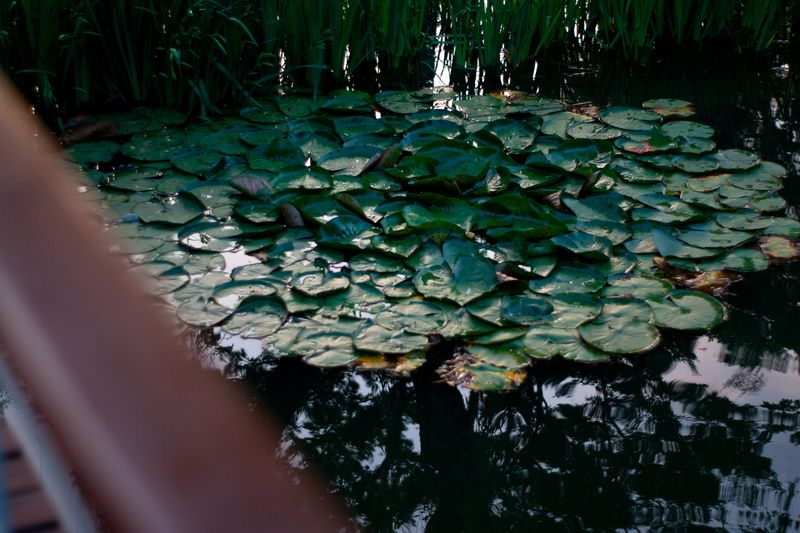
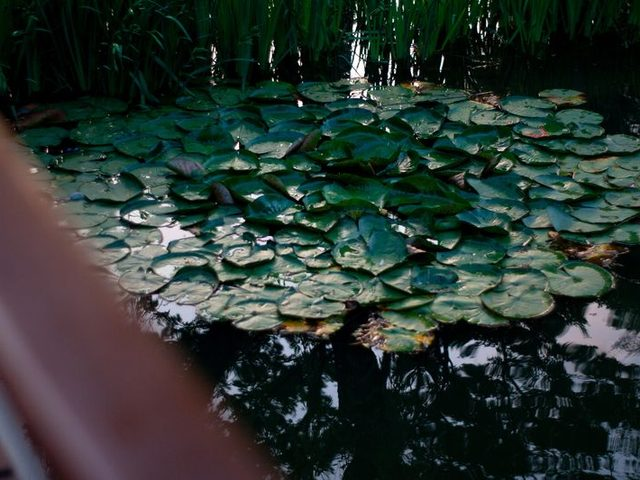
style: 照片墙统一 4:3 裁剪 + table 排版

diff --git a/README.md b/README.md
@@ -56,9 +56,13 @@ B.Sc. Computer Science @ Ningbo University → M.Sc. Cybersec @ NUAA *(incoming)
 <div align="center">
   <b>More shots / 更多照片</b>
   <br/><br/>
-  <img src="./assets/photos/lotus.jpg" width="280" alt="公园荷叶 by Crane"/>
-  <img src="./assets/photos/park.jpg" width="280" alt="公园 by Crane"/>
-  <img src="./assets/photos/bridge.jpg" width="190" alt="三官堂大桥 by Crane"/>
+  <table>
+    <tr>
+      <td align="center"><img src="./assets/photos/lotus.jpg" width="250" alt="公园荷叶 by Crane"/></td>
+      <td align="center"><img src="./assets/photos/park.jpg" width="250" alt="公园 by Crane"/></td>
+      <td align="center"><img src="./assets/photos/bridge.jpg" width="250" alt="三官堂大桥 by Crane"/></td>
+    </tr>
+  </table>
 </div>
 
 <br/>
